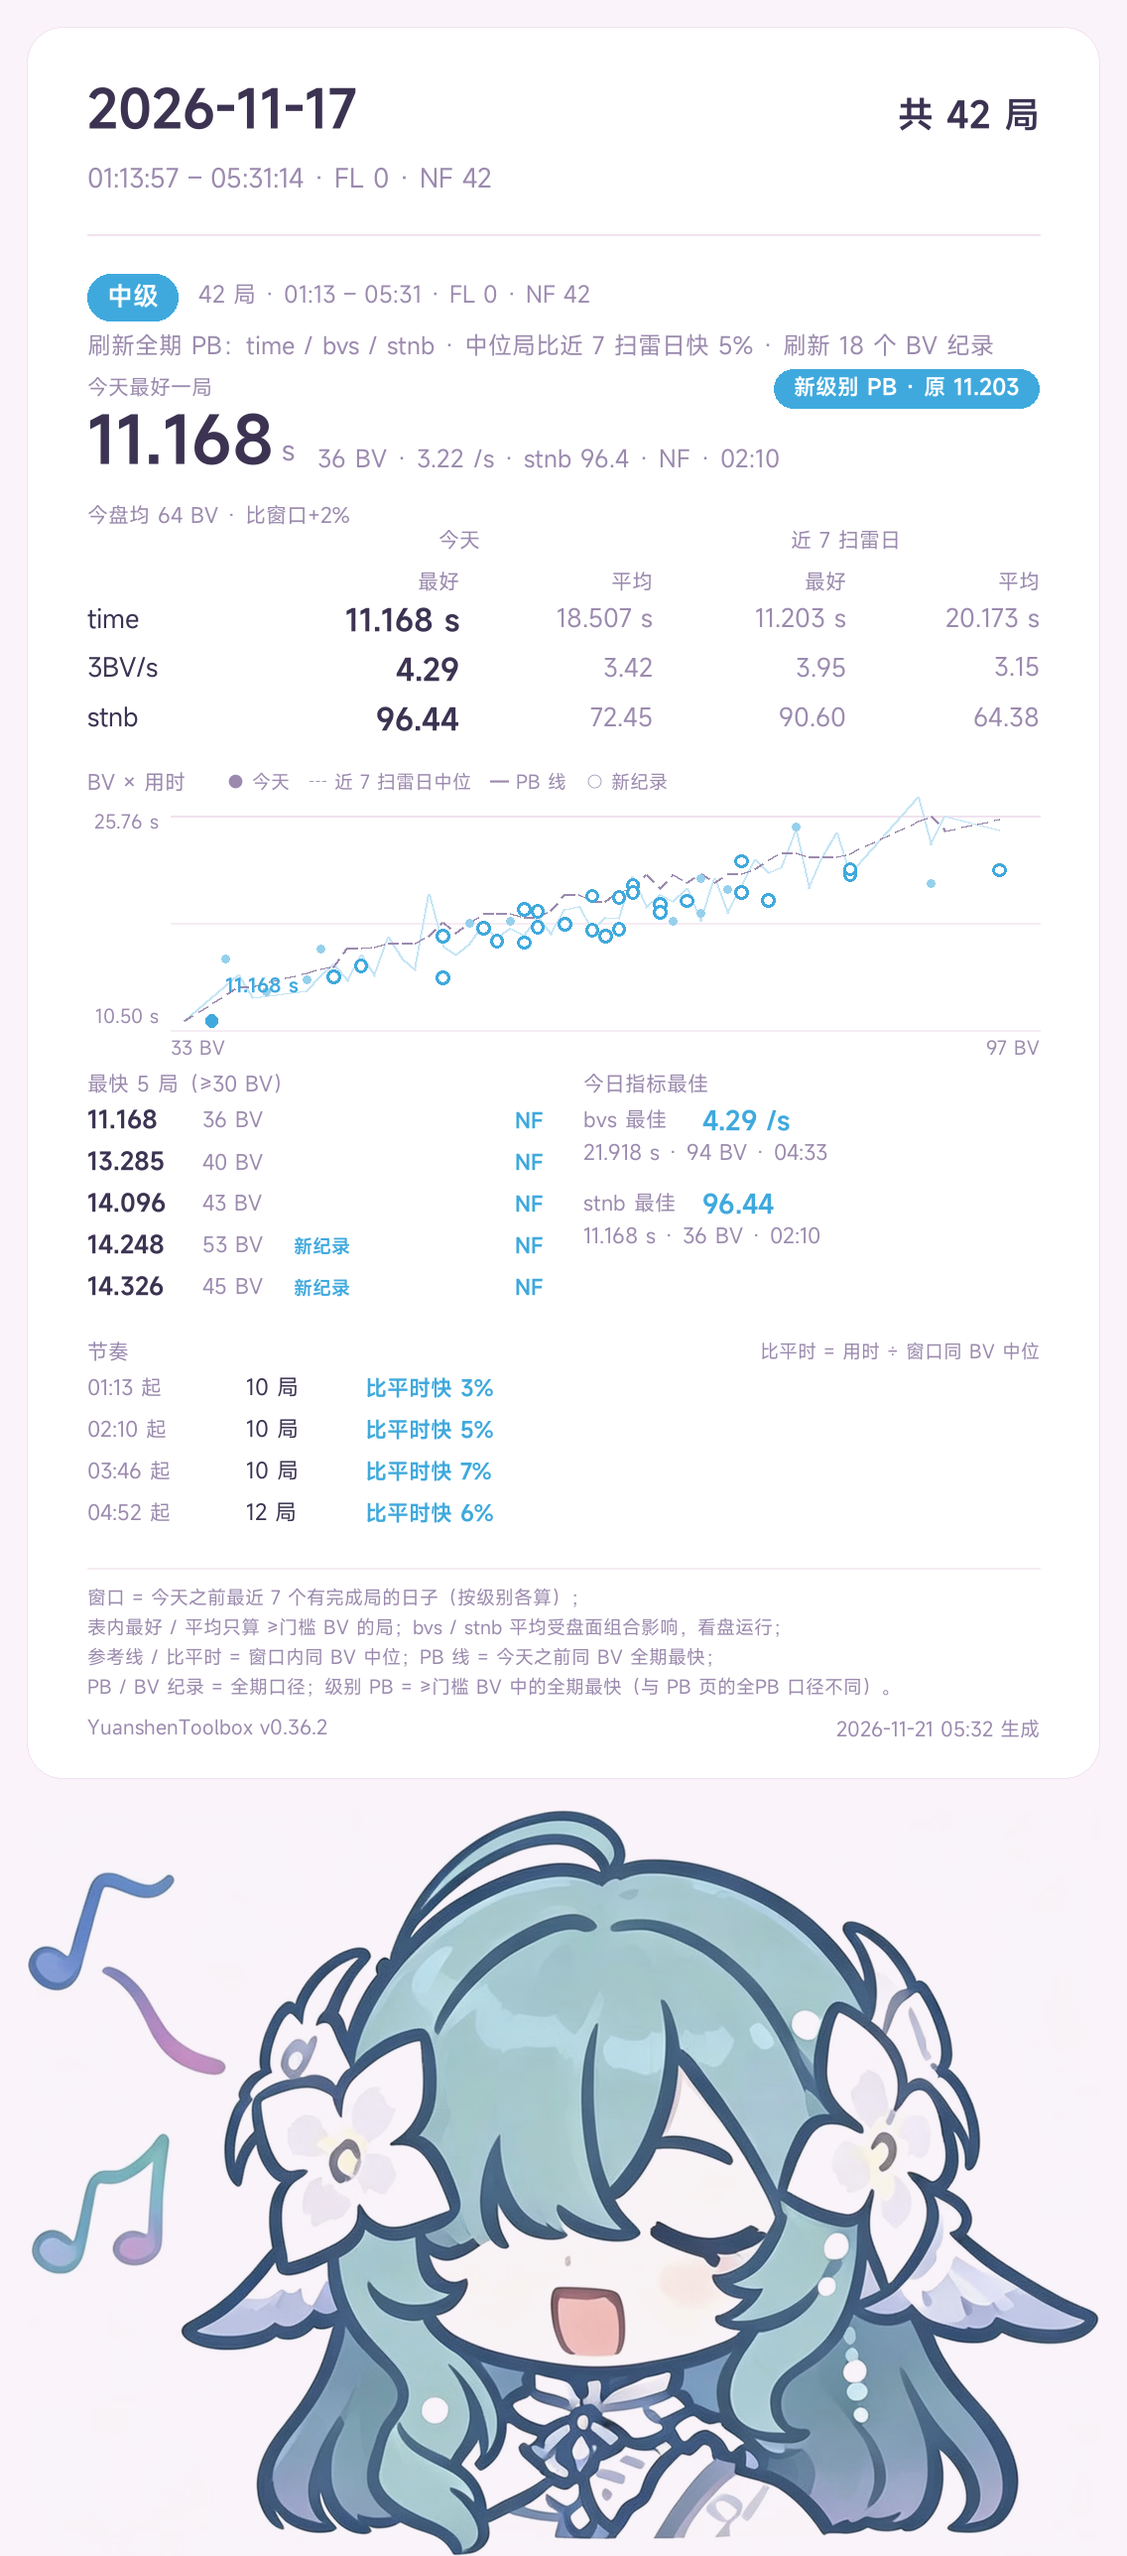
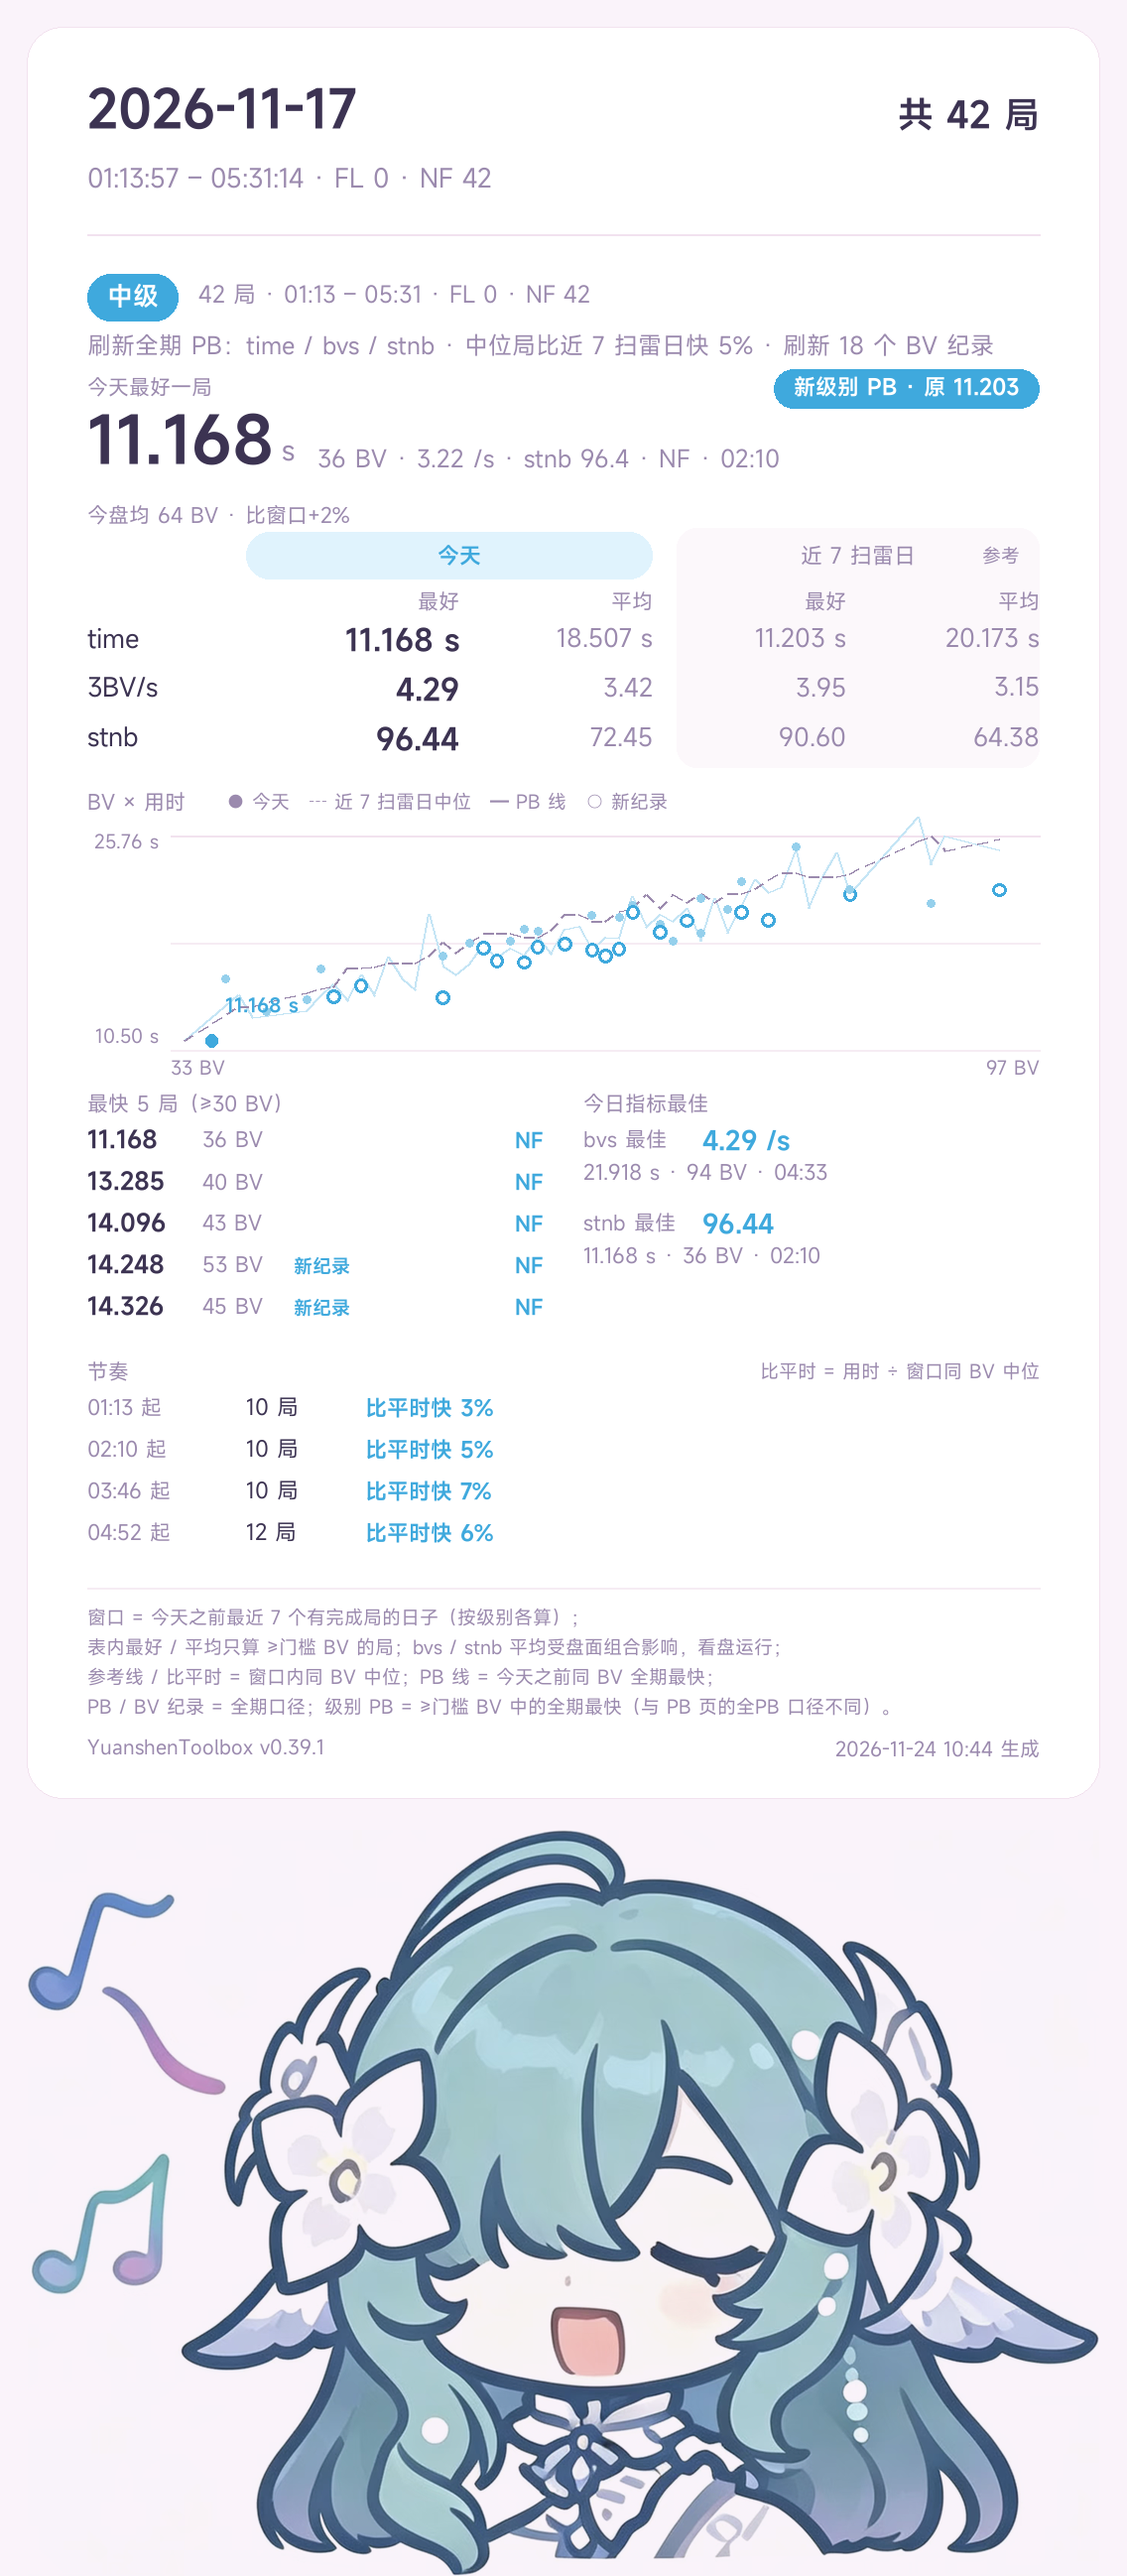
详细总结状态表分组更清楚（v0.39.1）

diff --git a/summary.py b/summary.py
@@ -37,6 +37,7 @@ C_INK = "#3c3352"
 C_DIM = "#9b8aae"
 C_LINE = "#f2e2ef"
 C_RULE = "#f6ecf3"
+C_PANEL = "#fcf8fb"
 
 SCALE = 2          # 2 倍像素渲染：发到手机上放大也不糊
 
@@ -872,10 +873,19 @@ def levels_detail_png(items, games_by_level, ver="", day="", now=None,
                 y += 18
             cw4 = (W - PAD * 2 - 90) / 4.0
             base = PAD + 90
-            sh.text(base + cw4, y, "今天", 10.5, C_DIM, anchor="mm")
-            sh.text(base + cw4 * 3, y, "近 %d 扫雷日" % WINDOW_DAYS,
-                    10.5, C_DIM, anchor="mm")
-            y += 16
+            accent_bg = LEVEL_ACCENT.get(lv, (C_INK, CARD_BG))[1]
+            # 「今天」整组一条浅色标题带；近 7 日放进右侧浅底参考框，
+            # 两组之间留空隙，避免把右边的三列读成并列的历史数据。
+            sh.rect(base - 10, y - 4, 2 * cw4 + 10, 24, accent_bg, radius=12)
+            sh.text(base + cw4, y + 8, "今天", 11, accent, True, anchor="mm")
+            panel_x = base + 2 * cw4 + 12
+            panel_w = W - PAD - panel_x
+            sh.rect(panel_x, y - 6, panel_w, 3 * 25 + 46, C_PANEL, radius=10)
+            sh.text(panel_x + panel_w / 2.0, y + 8,
+                    "近 %d 扫雷日" % WINDOW_DAYS, 11, C_DIM, anchor="mm")
+            sh.text(panel_x + panel_w - 10, y + 8, "参考", 9.5, C_DIM,
+                    anchor="rm")
+            y += 26
             for i, h in enumerate(("最好", "平均", "最好", "平均")):
                 sh.text(base + cw4 * (i + 1), y, h, 10.5, C_DIM, anchor="rt")
             y += 18

diff --git a/app.py b/app.py
@@ -36,7 +36,7 @@ import summary
 
 APP_TITLE = "YuanshenToolbox"
 APP_SUB = "MINESWEEPER REPLAY TOOLBOX"
-APP_VER = "0.39.0"
+APP_VER = "0.39.1"
 APP_DISPLAY = f"{APP_TITLE} v{APP_VER}"
 
 # 随程序打包的字体：MiSans（小米，免费商用）。私有注册，不装进系统字体目录。

diff --git a/docs/CHANGELOG.md b/docs/CHANGELOG.md
@@ -29,6 +29,11 @@
 > 计了 MINOR；按新判据两者都属功能内部呈现迭代，应为 PATCH。版本号已部署，依
 > 「已发布过的版本号不复用」保留不回滚；其后的递增按新判据执行。
 
+## v0.39.1
+
+- **详细总结状态表分组更清楚**：「今天」整组加浅色标题带，近 7 扫雷日收进右侧浅底
+  参考框并标「参考」，两组之间留空隙；不再把右边三列读成并列的历史数据。数据口径不变。
+
 ## v0.39.0
 
 - **设置里登记多个扫雷程序，打开工具箱自动启动**：设置弹窗新增「元扫雷程序」列表，
